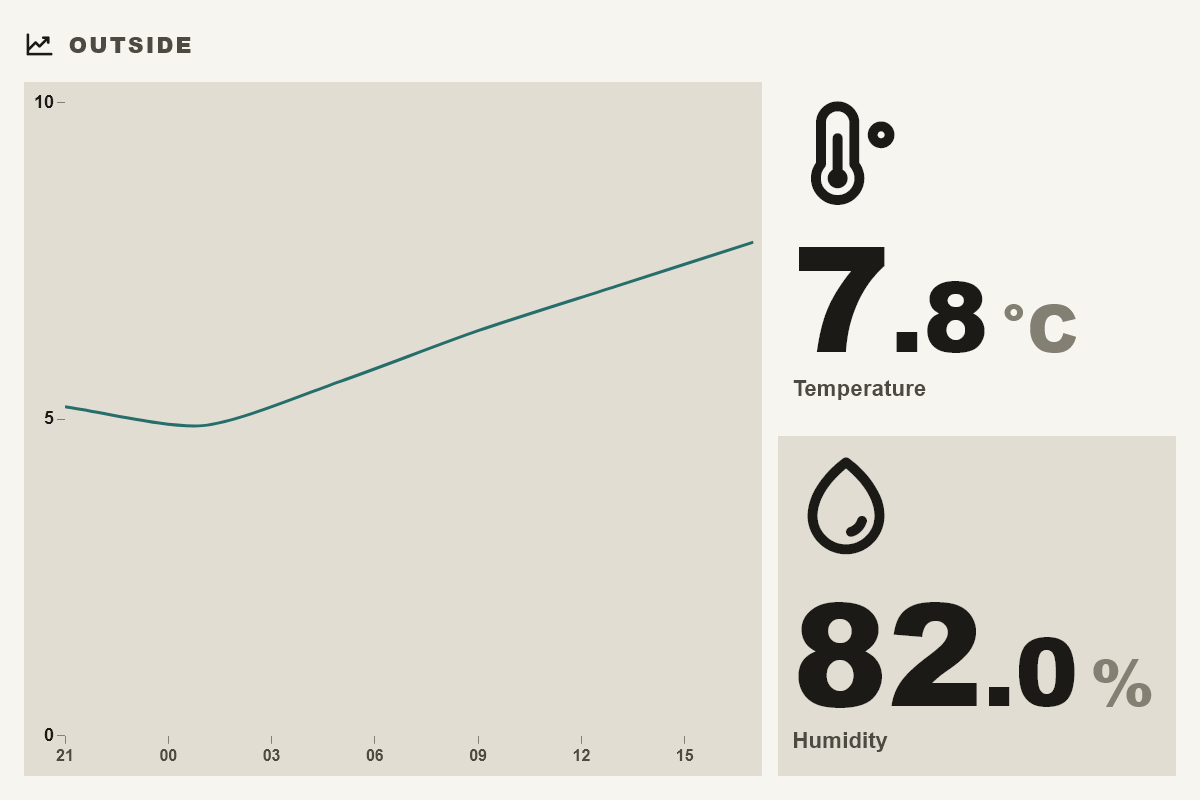
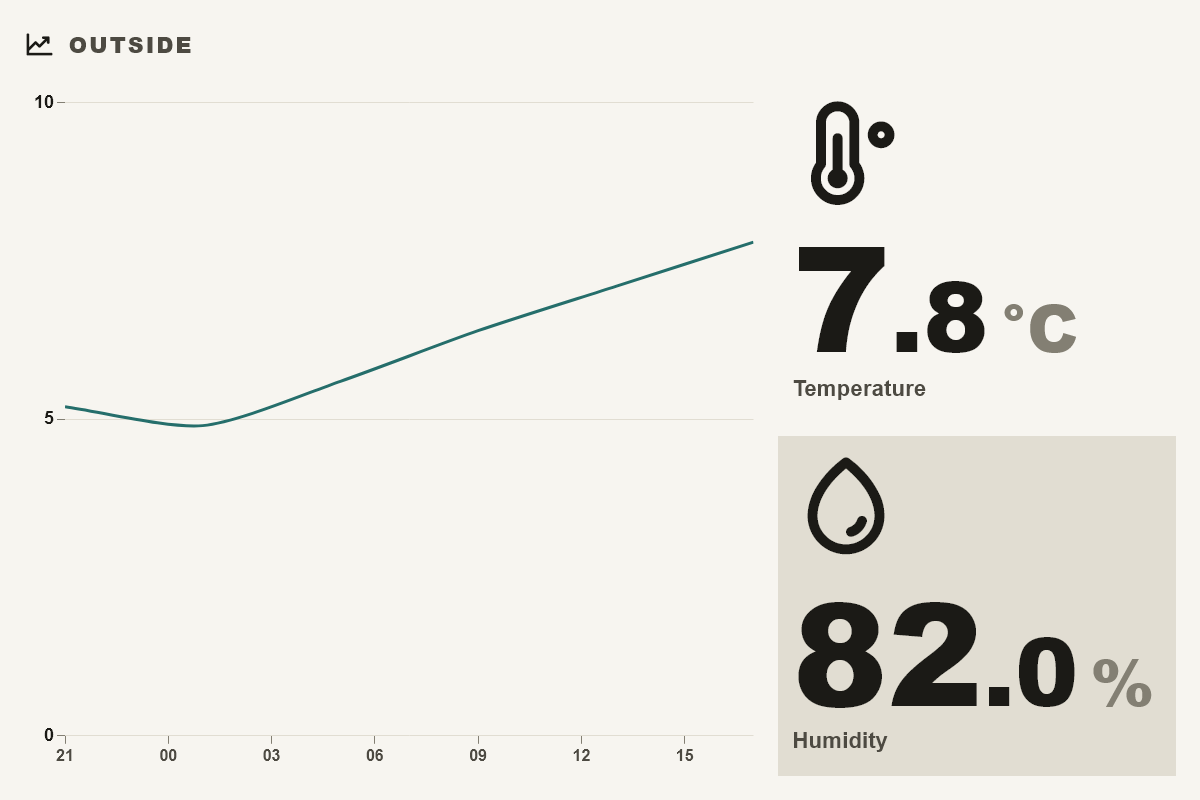
Switch the graph between the two entities on tap; release v0.3.0
A tap on a touch panel flips the graph between the primary and the secondary
entity, and the value not on the graph is set back. The graph area sits on the
card surface like the graphed value. New option: secondary minimum Y-axis span.

diff --git a/client.js b/client.js
@@ -59,7 +59,7 @@ function metricMarkup(data, prefix, ctx, locale) {
     ? ""
     : `<i class="metric-icon ph-bold ph-${escapeHtml(icon)}" aria-hidden="true"></i>`;
   return `
-    <div class="metric" data-value="${prefix}">
+    <div class="metric" data-value="${prefix}"${data.chart_series === prefix ? "" : " data-off-chart"}>
       ${iconMarkup}
       <div class="metric-copy">
         <div class="metric-value"><span>${value}</span>${unit ? `<small>${unit}</small>` : ""}</div>
@@ -316,7 +316,6 @@ const styles = `
       min-width: 0;
       min-height: 0;
       padding: var(--space-1);
-      background: var(--surface-sunken);
     }
     .chart-region canvas {
       display: block;
@@ -343,7 +342,8 @@ const styles = `
     /* fitMetricValues() overrides --value-size; the icon follows it, or the
        shared --icon-value-size once both values are fitted. */
     .metric { --value-size: clamp(var(--fs-value), 12cqmin, var(--fs-jumbo)); }
-    .metric:nth-child(2) { background: var(--surface-sunken); }
+    /* The value the chart does not plot is set back. */
+    .metric[data-off-chart] { background: var(--surface-sunken); }
     .metric[data-icon-side] { grid-template-columns: auto minmax(0, 1fr); }
     /* Above its value the icon keeps the text's left edge. */
     .metric-icon {
@@ -455,9 +455,11 @@ export default function render(shadow, ctx) {
   // CSS zoom scales the host's zoom-locked title bar as one unit: icon, text,
   // min-height and rule. A blank or invalid value leaves it at 1.
   const titleScale = Number(ctx.cell.options.title_scale) || 1;
-  const mount = (icon, title, body) => {
+  // A tap anywhere on the card reaches server.py's chart action: Tesserae
+  // collects data-on-tap regions from the rendered frame, shadow roots included.
+  const mount = (icon, title, body, tap = "") => {
     shadow.innerHTML = `${styles}
-    <div class="w dual-history" data-widget="ha_dual_history" data-size="${ctx.cell.size}">
+    <div class="w dual-history" data-widget="ha_dual_history" data-size="${ctx.cell.size}"${tap ? ` data-on-tap="${escapeHtml(tap)}"` : ""}>
       <div class="w-title" style="zoom: ${titleScale}">
         <i class="ph-bold ${icon}" aria-hidden="true"></i>
         <h3>${escapeHtml(title)}</h3>
@@ -502,7 +504,7 @@ export default function render(shadow, ctx) {
           ${metricMarkup(data, "primary", ctx, locale)}
           ${data.secondary_value ? metricMarkup(data, "secondary", ctx, locale) : ""}
         </div>
-      </div>`);
+      </div>`, data.chart_tap);
 
   const canvas = shadow.querySelector("canvas");
   if (canvas) drawHistory(canvas, tokens(shadow.host), data, ctx, locale);

diff --git a/server.py b/server.py
@@ -1,4 +1,4 @@
-"""One or two current Home Assistant values plus the primary entity's history."""
+"""One or two current Home Assistant values plus the history of one of them."""
 
 from __future__ import annotations
 
@@ -8,6 +8,11 @@ from datetime import UTC, datetime
 from typing import Any
 
 from flask import current_app
+
+try:
+    from app import button_actions
+except ImportError:  # loaded outside the Tesserae host, as by the unit tests
+    button_actions = None
 
 
 _EM_DASH = "—"
@@ -74,11 +79,37 @@ _MAX_HISTORY_POINTS = 80
 _WINDOW_HOURS = {6, 12, 24, 48, 72, 168}
 # The number-pattern vocabulary of the bundled ha_sensor and ha_history widgets.
 _NUMBER_FORMAT = re.compile(r"0(?:\.(0+))?")
+# The tap action the card carries while it has two values. Its argument is the
+# "primary|secondary" entity pair: the touch dispatcher passes the action
+# nothing about the tapped cell, so the pair is what both the action and
+# fetch() can name the chart by.
+_CHART_ACTION = "ha_dual_history_chart"
+# Entity pairs whose chart a tap has switched to the secondary history.
+# ponytail: in-memory and keyed by the pair, so a Tesserae restart shows the
+# primary again and cells with the same pair switch together; persist it in
+# data_dir or key it per cell if either matters.
+_SECONDARY_CHARTS: set[str] = set()
 
 
 def _core() -> Any:
     plugin = current_app.config["PLUGIN_REGISTRY"].get("ha_core")
     return plugin.server_module if plugin is not None else None
+
+
+def _switch_chart(ctx: Any, pair: str | None) -> Any:
+    """Flips the pair's chart between its two series and re-renders the page,
+    like the host's own "refresh", so the same wake shows the other chart."""
+    _SECONDARY_CHARTS.symmetric_difference_update({pair or ""})
+    return button_actions.ActionResult(
+        new_step_index=ctx.current_step_index,
+        target_page_id=None,
+        force_refresh=True,
+        description=f"{_CHART_ACTION} -> {pair}",
+    )
+
+
+if button_actions is not None:
+    button_actions.register(_CHART_ACTION, _switch_chart)
 
 
 def choices(name: str) -> list[dict[str, str]]:
@@ -238,7 +269,13 @@ def fetch(
     )
     title = title or primary["entity_name"]
     position = "left" if options.get("values_position") == "left" else "right"
-    minimum_y_span = _finite_float(options.get("minimum_y_span"))
+    # Without a secondary there is nothing to switch to, so the card gets no
+    # tap action and its pair can never be switched.
+    pair = f"{primary_id}|{secondary_id}"
+    series = "secondary" if pair in _SECONDARY_CHARTS else "primary"
+    # The primary's span keeps its original option name.
+    span_option = "minimum_y_span" if series == "primary" else "secondary_minimum_y_span"
+    minimum_y_span = _finite_float(options.get(span_option))
     if minimum_y_span is None or minimum_y_span <= 0:
         minimum_y_span = 5.0
     hours = _select_int(options.get("window"), _WINDOW_HOURS, 24)
@@ -252,6 +289,8 @@ def fetch(
         "chart_width": chart_width,
         "minimum_y_span": minimum_y_span,
         "history_hours": hours,
+        "chart_series": series,
+        "chart_tap": f"{_CHART_ACTION}:{pair}" if secondary_id else "",
         "history_values": [],
         "history_times": [],
         "chart_error_key": "",
@@ -265,7 +304,9 @@ def fetch(
     # History is a separate failure domain: an HA history timeout must not
     # erase two current states that were already fetched successfully.
     try:
-        samples = core.history(primary_id, hours=hours)
+        samples = core.history(
+            secondary_id if series == "secondary" else primary_id, hours=hours
+        )
         output["history_values"], output["history_times"] = _history_series(samples)
     except Exception as error:
         output["chart_error_key"] = "chart.history_error"

diff --git a/tests/test_server.py b/tests/test_server.py
@@ -388,6 +388,45 @@ class ServerContractTest(unittest.TestCase):
         self.assertEqual(output["history_values"][-1], 160.0)
         self.assertEqual(len(output["history_times"]), 80)
 
+    def tap(self, spec: str) -> Any:
+        """Dispatch a card's tap action the way the host's registry would."""
+        name, _, arg = spec.partition(":")
+        self.assertEqual(name, SERVER._CHART_ACTION)
+        return SERVER._switch_chart(SimpleNamespace(current_step_index=2), arg)
+
+    def test_tap_switches_the_chart_between_the_two_entities(self) -> None:
+        actions = SimpleNamespace(ActionResult=lambda **fields: fields)
+        for name, value in (("_SECONDARY_CHARTS", set()), ("button_actions", actions)):
+            patcher = mock.patch.object(SERVER, name, value)
+            patcher.start()
+            self.addCleanup(patcher.stop)
+        options = self.base_options() | {"minimum_y_span": "4", "secondary_minimum_y_span": "12"}
+
+        output = self.fetch(options)
+        self.assertEqual(output["chart_series"], "primary")
+        self.assertEqual(output["minimum_y_span"], 4.0)
+        self.assertEqual(self.core.history_calls[-1][0], "sensor.outdoor_temperature")
+
+        result = self.tap(output["chart_tap"])
+        self.assertTrue(result["force_refresh"])
+        self.assertEqual(result["new_step_index"], 2)
+        output = self.fetch(options)
+        self.assertEqual(output["chart_series"], "secondary")
+        self.assertEqual(output["minimum_y_span"], 12.0)
+        self.assertEqual(self.core.history_calls[-1][0], "sensor.outdoor_humidity")
+        self.assertEqual(self.fetch(options | {"secondary_minimum_y_span": ""})["minimum_y_span"], 5.0)
+
+        # Another pair keeps its own chart; a second tap returns to the primary.
+        other = self.fetch({"primary_entity": "sensor.outdoor_humidity", "secondary_entity": "sensor.outdoor_temperature"})
+        self.assertEqual(other["chart_series"], "primary")
+        self.tap(output["chart_tap"])
+        self.assertEqual(self.fetch(options)["chart_series"], "primary")
+
+    def test_a_lone_primary_offers_no_tap(self) -> None:
+        output = self.fetch({"primary_entity": "sensor.outdoor_temperature"})
+        self.assertEqual(output["chart_tap"], "")
+        self.assertEqual(output["chart_series"], "primary")
+
 
 if __name__ == "__main__":
     unittest.main()

diff --git a/README.md b/README.md
@@ -9,8 +9,11 @@ and humidity.
 
 ## What it does
 
-- Reads current states and the primary entity's history through the shared
+- Reads current states and the graphed entity's history through the shared
   Home Assistant Core plugin (`ha_core`); the widget makes no requests of its own.
+- On a touch panel a tap on the card switches the graph between the primary and
+  the secondary entity; the value not on the graph is set back. The choice is
+  kept in memory per entity pair, so a Tesserae restart shows the primary again.
 - History window from 6 hours to 7 days, drawn on a real time axis with
   local-hour ticks (weekdays for 3 and 7 days).
 - Labels, icons and units follow the entity's `device_class` unless set
@@ -32,12 +35,12 @@ This widget adds no settings of its own.
 | --- | --- |
 | Title, Title size | blank = the primary entity's name; 0.5–3× |
 | Primary entity | the entity whose history is drawn and whose value is shown |
-| Secondary entity | optional; only its current value is shown |
+| Secondary entity | optional; its current value is shown, a tap graphs its history |
 | Label, Show label, Number format, Icon | per value; blank label and `Auto` icon follow `device_class`; format `0`, `0.0`, `0.00` |
 | Values position | `right` or `left` (wide sizes) |
 | Graph size | 40–80 % of the body |
 | History window | 6, 12, 24 hours, 2, 3 or 7 days |
-| Minimum Y-axis span | widens a flat graph without clipping values |
+| Minimum Y-axis span | per entity; widens a flat graph without clipping values |
 
 ## Locales
 
